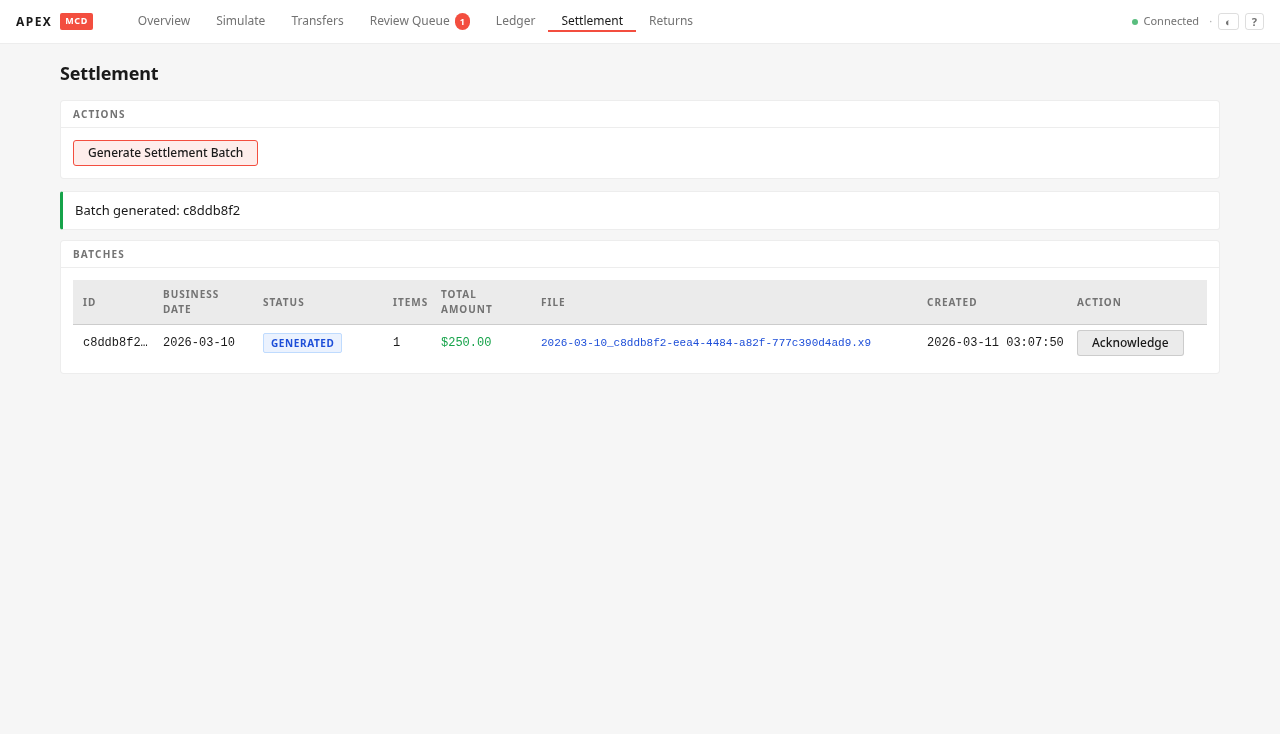
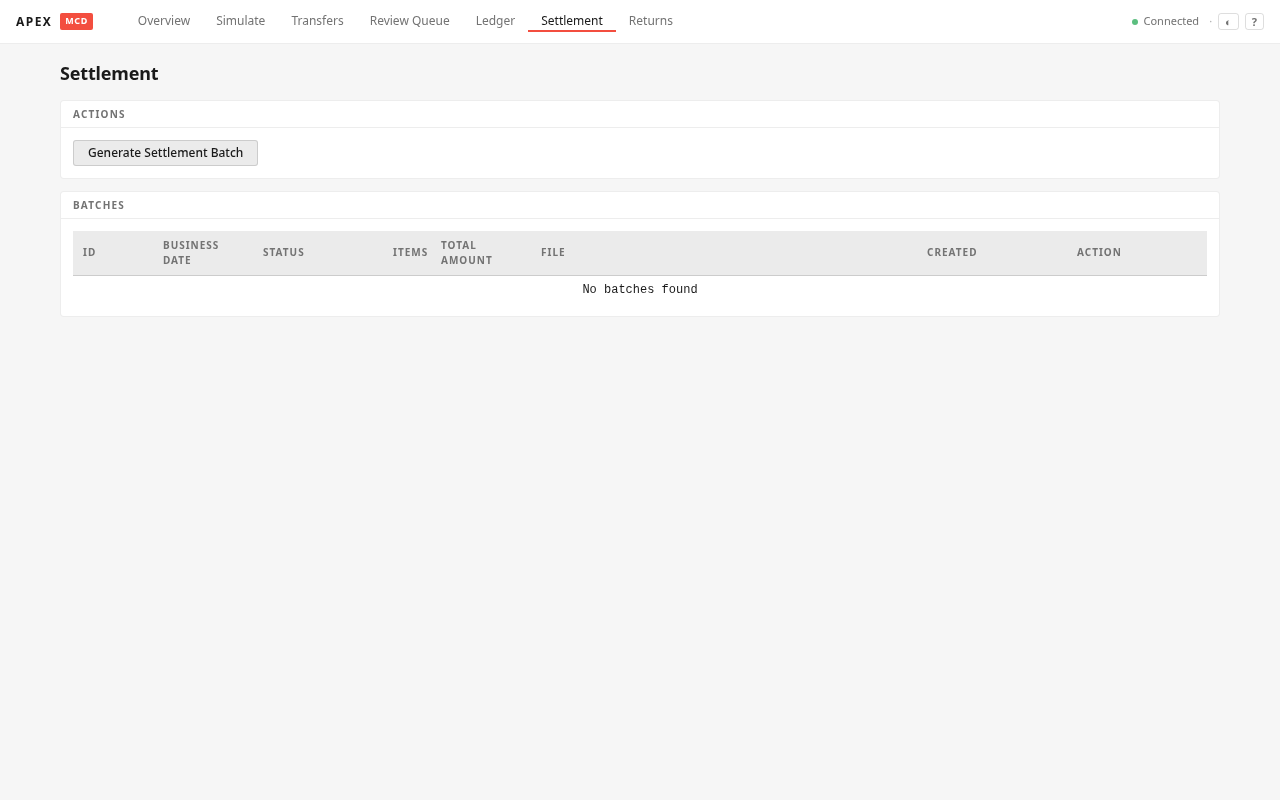
feat: collapsible panels, settlement badge, fresh screenshots, minor polish
- Collapsible panels: click panel-header to toggle body visibility
  Chevron indicator rotates on collapse; used in transfer detail for
  Check Images, Rule Evaluations, Activity panels
- Settlement nav badge: HTMX live count of FundsPosted transfers
  (mirrors the Review Queue badge pattern, polls every 15s)
- Fresh docs screenshots: new Amp UI with dark neutral bg, red-orange accent,
  added 01-dashboard.png for the new Overview page
- README: add dashboard row to screenshots table

diff --git a/web/templates/layout.html b/web/templates/layout.html
@@ -21,7 +21,7 @@
           <a href="/ui/transfers"  class="nav-level-tab" {{if eq .ActivePage "transfers" }}aria-selected="true"{{end}}>Transfers</a>
           <a href="/ui/review"     class="nav-level-tab" {{if eq .ActivePage "review"    }}aria-selected="true"{{end}}>Review Queue <span id="review-count" hx-get="/ui/review-count" hx-trigger="load, every 5s" hx-swap="innerHTML"></span></a>
           <a href="/ui/ledger"     class="nav-level-tab" {{if eq .ActivePage "ledger"    }}aria-selected="true"{{end}}>Ledger</a>
-          <a href="/ui/settlement" class="nav-level-tab" {{if eq .ActivePage "settlement"}}aria-selected="true"{{end}}>Settlement</a>
+          <a href="/ui/settlement" class="nav-level-tab" {{if eq .ActivePage "settlement"}}aria-selected="true"{{end}}>Settlement <span id="settlement-count" hx-get="/ui/settlement-count" hx-trigger="load, every 15s" hx-swap="innerHTML"></span></a>
           <a href="/ui/returns"    class="nav-level-tab" {{if eq .ActivePage "returns"   }}aria-selected="true"{{end}}>Returns</a>
         </div>
       </div>
@@ -117,6 +117,26 @@ kbd {
 </style>
 
 <script>
+// Collapsible panels — click [data-collapsible] headers to toggle
+document.addEventListener('click', function (e) {
+  var header = e.target.closest('.panel-header[data-collapsible]');
+  if (!header) return;
+  var panel = header.closest('.panel');
+  if (!panel) return;
+  var body = panel.querySelector('.panel-body');
+  if (!body) return;
+  var collapsed = panel.getAttribute('data-collapsed') === 'true';
+  if (collapsed) {
+    body.style.display = '';
+    panel.removeAttribute('data-collapsed');
+    header.setAttribute('aria-expanded', 'true');
+  } else {
+    body.style.display = 'none';
+    panel.setAttribute('data-collapsed', 'true');
+    header.setAttribute('aria-expanded', 'false');
+  }
+});
+
 // Copy-to-clipboard utility — wire [data-copy] buttons
 document.addEventListener('click', function (e) {
   var btn = e.target.closest('[data-copy]');

diff --git a/web/templates/transfer_detail.html b/web/templates/transfer_detail.html
@@ -31,7 +31,7 @@
   </div>
 
   <div class="panel" style="margin-bottom:12px;">
-    <div class="panel-header"><span class="panel-header-title">Check Images</span></div>
+    <div class="panel-header" data-collapsible aria-expanded="true"><span class="panel-header-title">Check Images</span></div>
     <div class="panel-body">
       <div class="check-images">
         <img class="check-image" src="/ui/images/{{.Transfer.ID}}/FRONT" alt="Front Check" data-side="front">
@@ -91,7 +91,7 @@
 
   {{if .RuleEvaluations}}
   <div class="panel" style="margin-bottom:12px;">
-    <div class="panel-header"><span class="panel-header-title">Rule Evaluations</span></div>
+    <div class="panel-header" data-collapsible aria-expanded="true"><span class="panel-header-title">Rule Evaluations</span></div>
     <div class="panel-body">
       <table class="data-table">
         <thead>
@@ -117,7 +117,7 @@
 
   {{if .AuditEvents}}
   <div class="panel" style="margin-bottom:12px;">
-    <div class="panel-header"><span class="panel-header-title">Activity</span></div>
+    <div class="panel-header" data-collapsible aria-expanded="true"><span class="panel-header-title">Activity</span></div>
     <div class="panel-body" style="padding:8px 12px;">
       <div class="timeline">
         {{range .AuditEvents}}

diff --git a/web/static/style.css b/web/static/style.css
@@ -744,6 +744,22 @@ a:hover {
 .status-indicator[data-active] { animation: status-pulse 3s ease-in-out infinite; }
 
 /* --------------------------------------------------------------------------
+   Collapsible panels — data-collapsible on .panel-header
+   -------------------------------------------------------------------------- */
+.panel-header[data-collapsible] { cursor: pointer; }
+.panel-header[data-collapsible]:hover .panel-header-title { color: var(--text-primary); }
+.panel-header[data-collapsible]::after {
+  content: '▾';
+  margin-left: auto;
+  font-size: 10px;
+  color: var(--text-tertiary);
+  transition: transform 0.15s;
+}
+.panel[data-collapsed] > .panel-header[data-collapsible]::after {
+  transform: rotate(-90deg);
+}
+
+/* --------------------------------------------------------------------------
    Copy button — [data-copy] utility
    -------------------------------------------------------------------------- */
 [data-copy] {

diff --git a/internal/http/ui/handlers.go b/internal/http/ui/handlers.go
@@ -173,6 +173,7 @@ func (h *UIHandlers) RegisterRoutes(r chi.Router) {
 	r.Get("/ui/transfers/{id}", h.transferDetailPage)
 	r.Get("/ui/review", h.reviewPage)
 	r.Get("/ui/review-count", h.reviewCountBadge)
+	r.Get("/ui/settlement-count", h.settlementCountBadge)
 	r.Get("/ui/review/{id}", h.reviewDetailPage)
 	r.Post("/ui/review/{id}/approve", h.reviewApprove)
 	r.Post("/ui/review/{id}/reject", h.reviewReject)
@@ -471,6 +472,16 @@ func (h *UIHandlers) reviewCountBadge(w http.ResponseWriter, r *http.Request) {
 	}
 
 	count := len(list)
+	if count == 0 {
+		w.Write([]byte(""))
+		return
+	}
+	fmt.Fprintf(w, `<span class="review-badge">%d</span>`, count)
+}
+
+func (h *UIHandlers) settlementCountBadge(w http.ResponseWriter, r *http.Request) {
+	var count int
+	h.DB.QueryRow(`SELECT COUNT(*) FROM transfers WHERE state='FundsPosted'`).Scan(&count)
 	if count == 0 {
 		w.Write([]byte(""))
 		return

diff --git a/README.md b/README.md
@@ -231,6 +231,7 @@ apex/
 
 | Page              | Screenshot                                                      |
 |-------------------|-----------------------------------------------------------------|
+| Dashboard         | ![Dashboard](docs/screenshots/01-dashboard.png)                 |
 | Deposit Simulator | ![Deposit Simulator](docs/screenshots/01-deposit-simulator.png) |
 | Deposit Result    | ![Deposit Result](docs/screenshots/02-deposit-result.png)       |
 | Transfers List    | ![Transfers List](docs/screenshots/03-transfers-list.png)       |
